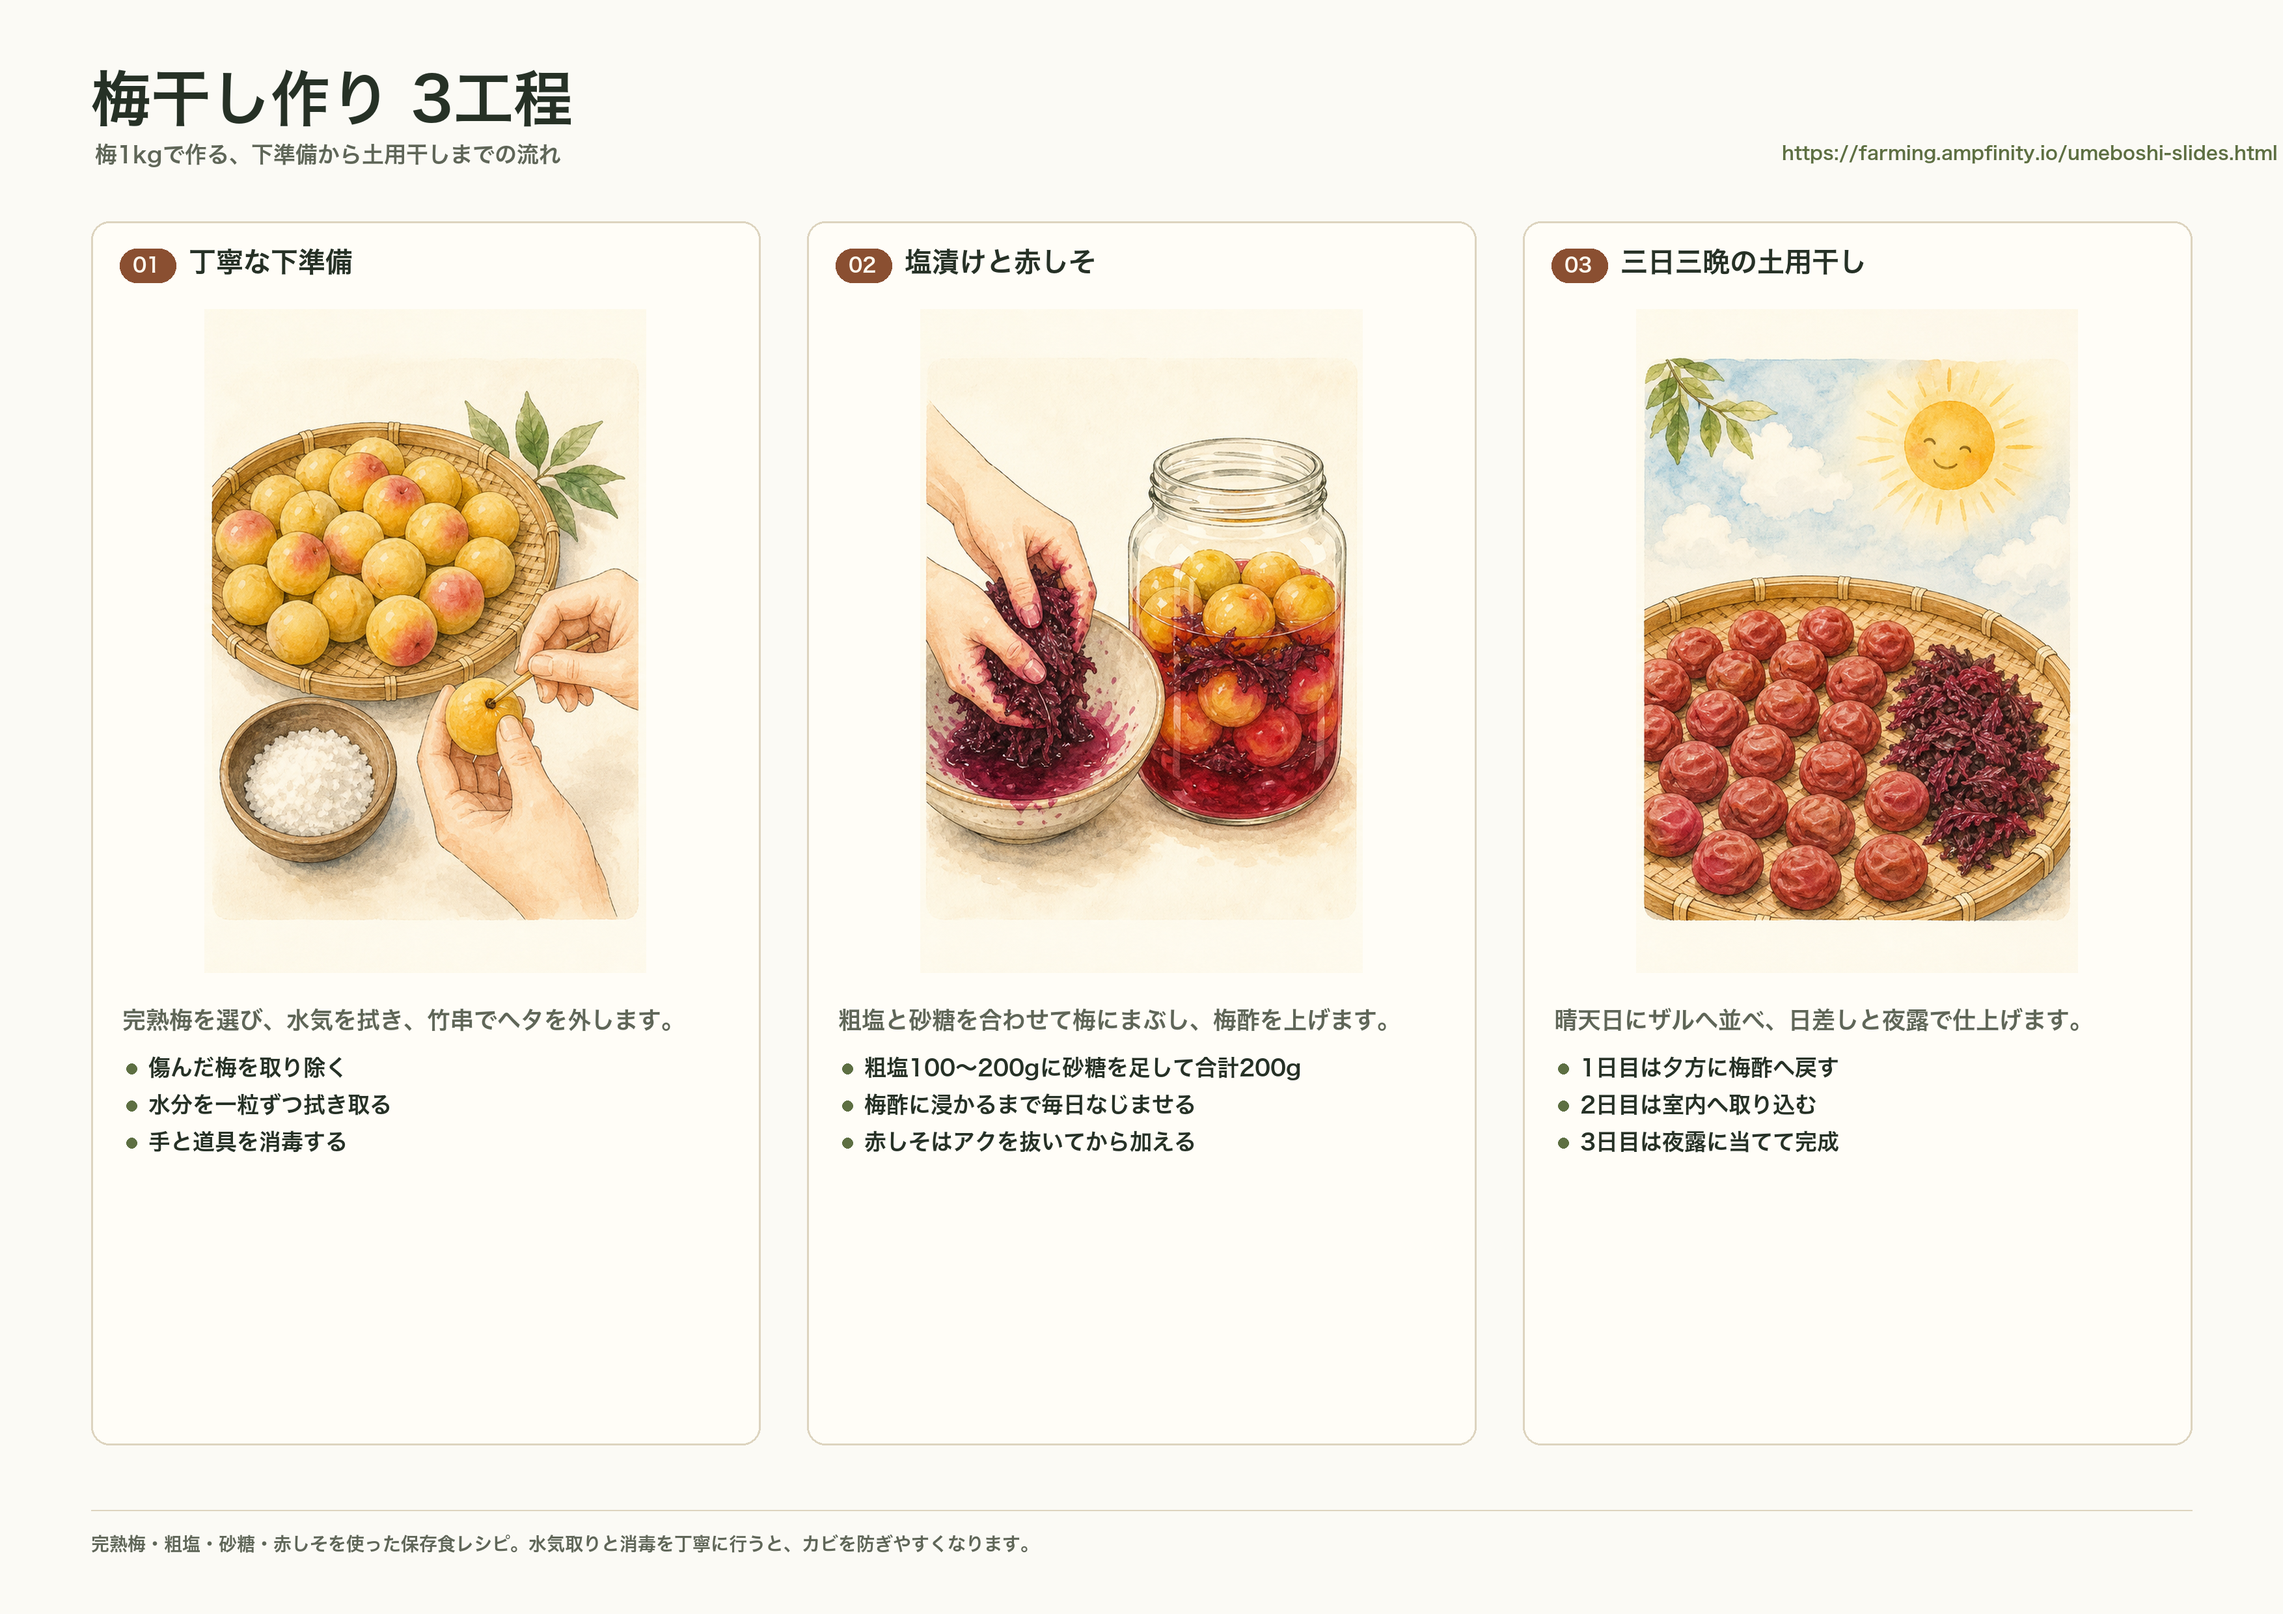
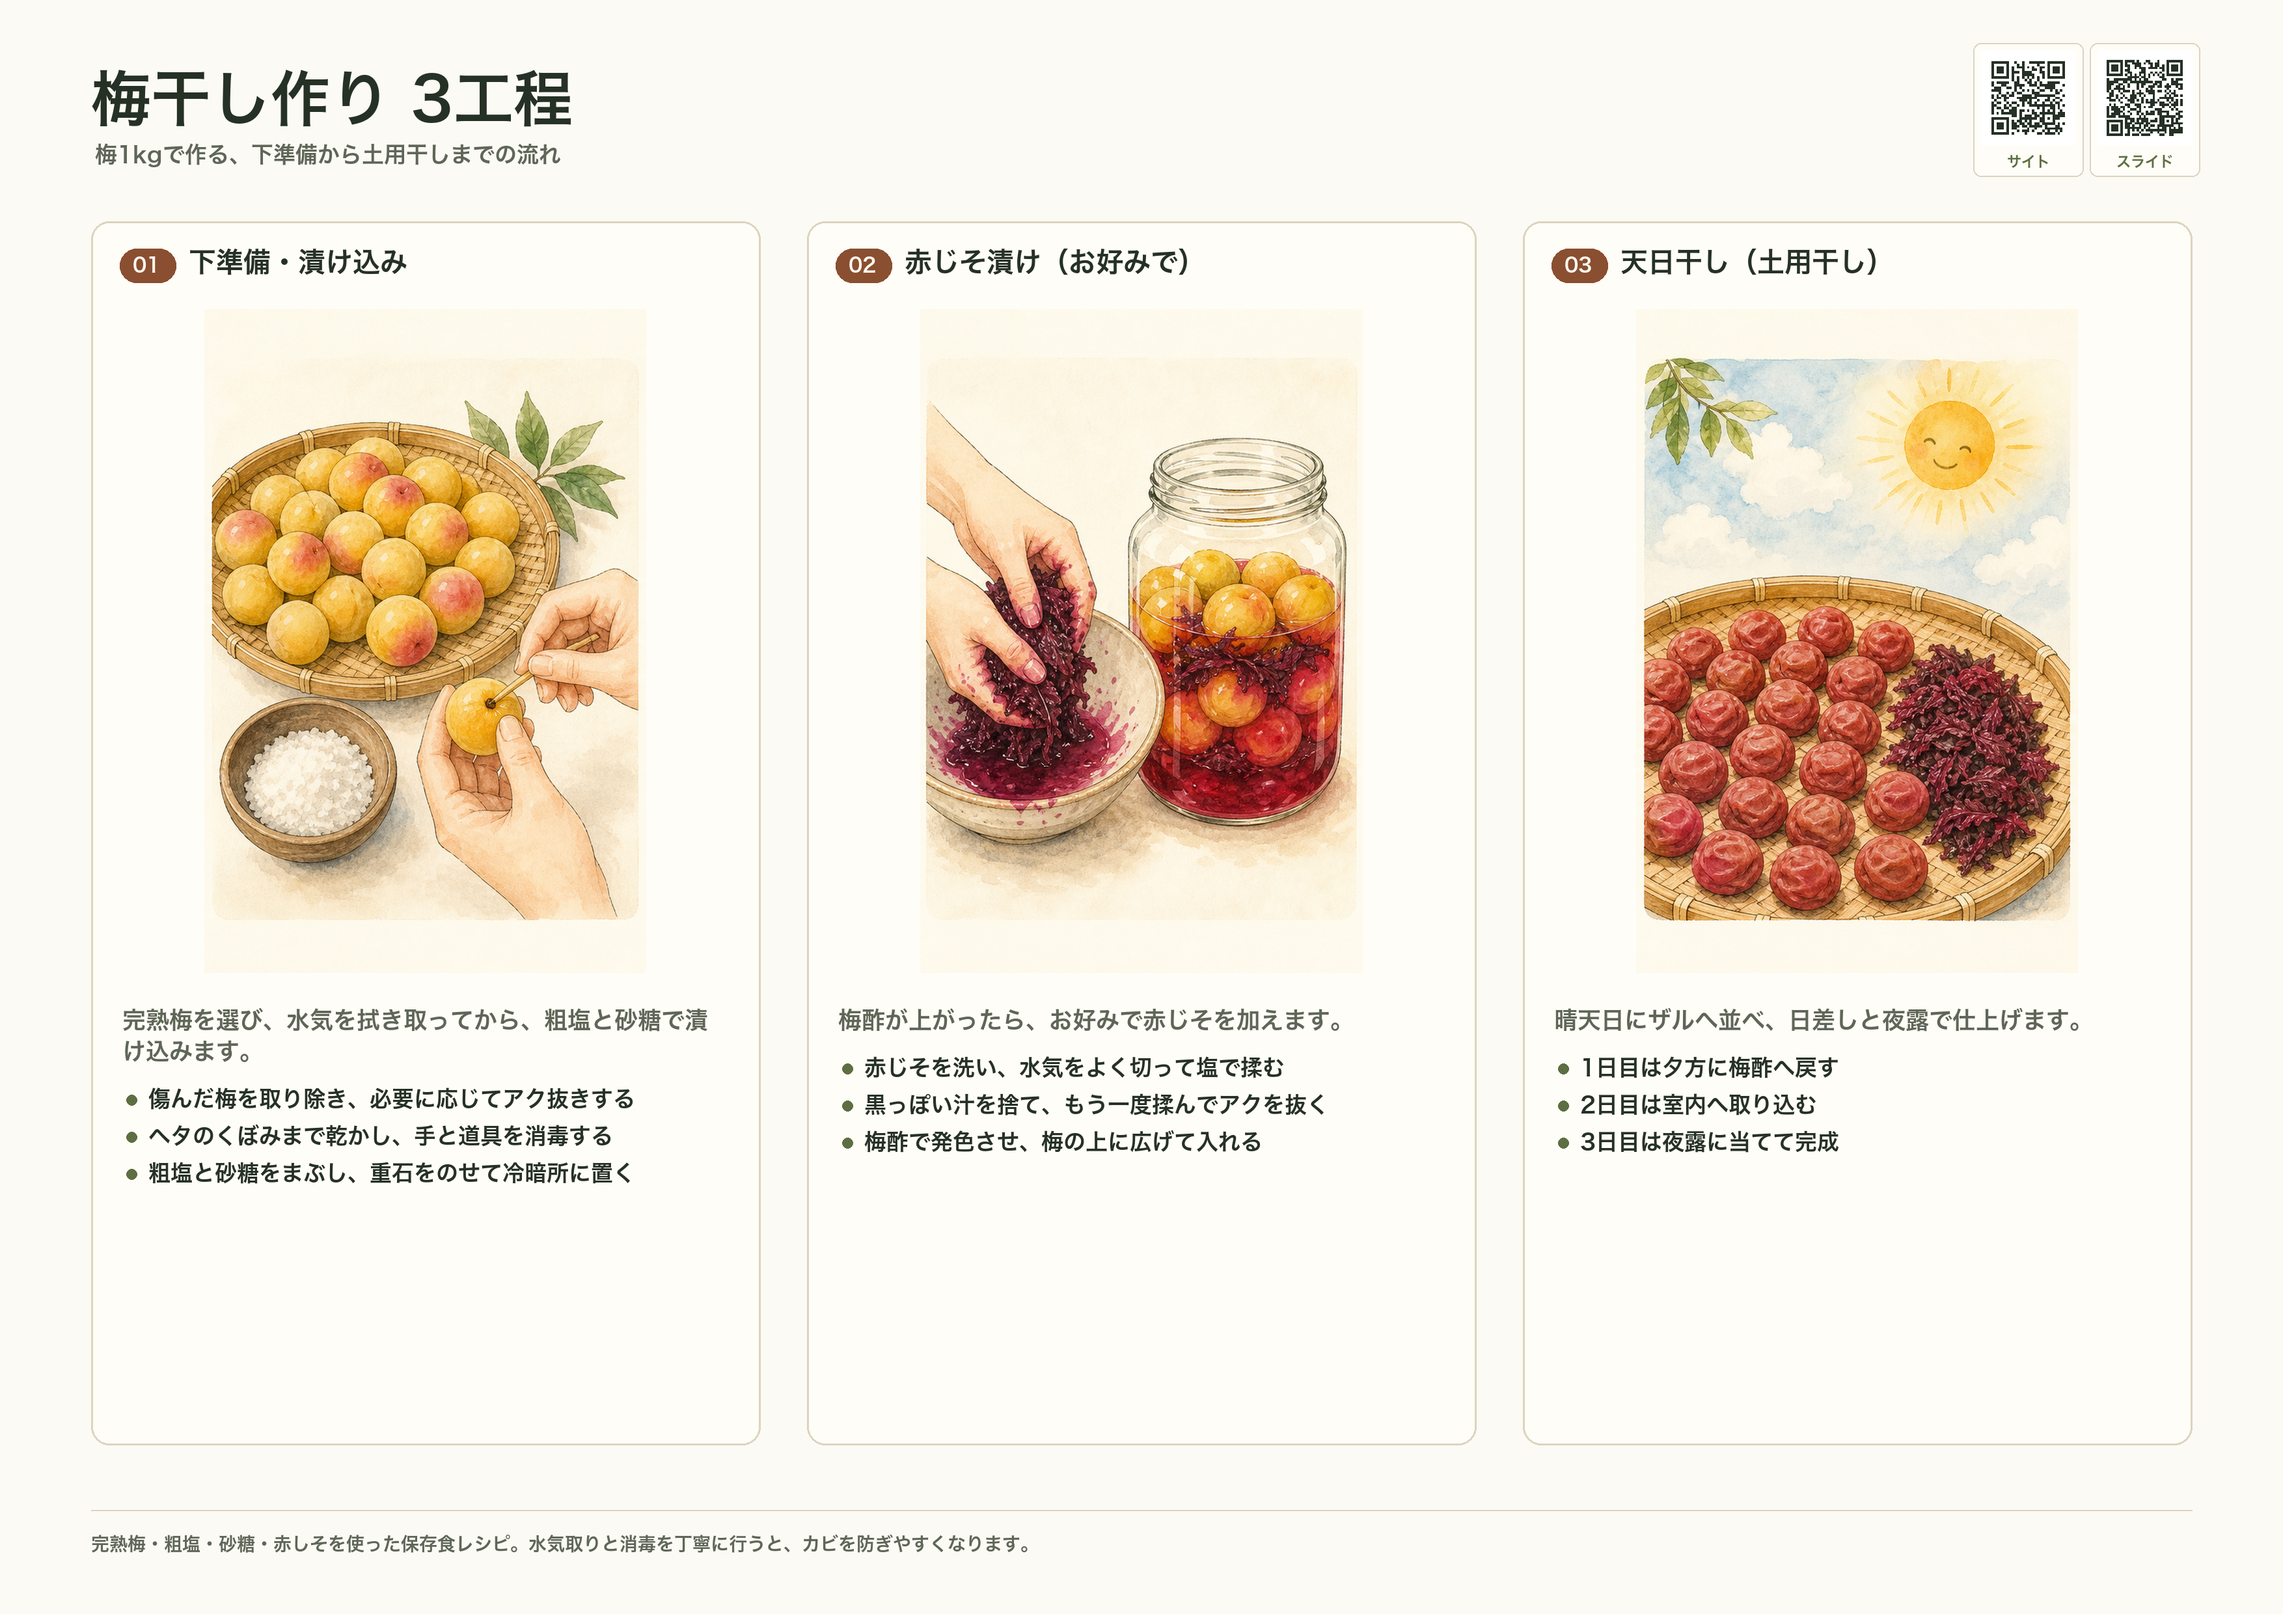
Update umeboshi recipe resources

diff --git a/umeboshi-slides.html b/umeboshi-slides.html
@@ -232,29 +232,29 @@
 
       const slides = [
         {
-          title: "丁寧な下準備",
+          title: "下準備・漬け込み",
           image: "output/images/slides/umeboshi_prep.png",
           lead:
-            "完熟梅を選び、水気をしっかり拭き取り、竹串でヘタを外します。カビを防ぐための土台になる工程です。",
+            "完熟梅を選び、水気をしっかり拭き取ってから、粗塩と砂糖で漬け込みます。梅酢を早く上げるための大切な工程です。",
           points: [
-            "傷んだ梅を取り除き、青みが残る梅は短時間だけアク抜きする。",
-            "ヘタのくぼみまで一粒ずつ乾かし、水分を残さない。",
-            "作業前に手と道具を清潔にして、焼酎で軽く消毒する。",
+            "傷んだ梅を取り除き、必要に応じて短時間だけアク抜きする。",
+            "ヘタのくぼみまで一粒ずつ乾かし、手と道具を消毒する。",
+            "粗塩と砂糖を合わせて梅にまぶし、重石をのせて冷暗所に置く。",
           ],
         },
         {
-          title: "塩漬けと赤しそ",
+          title: "赤じそ漬け（お好みで）",
           image: "output/images/slides/umeboshi_shiso.png",
           lead:
-            "粗塩と砂糖を合わせて梅にまぶし、梅酢を上げます。赤しそを加えると、鮮やかな色と香りが移ります。",
+            "梅酢が上がったら、お好みで赤じそを加えます。赤く色づいた昔ながらの梅干しに仕上げたいときの工程です。",
           points: [
-            "粗塩100〜200gに砂糖を足し、合計200gになるように用意する。",
-            "梅が梅酢に浸かるまで、毎日やさしく容器を揺すってなじませる。",
-            "赤しそは塩で揉んでアクを抜き、梅酢で発色させてから加える。",
+            "赤じそを洗い、水気をよく切ってから塩で揉む。",
+            "出てきた黒っぽい汁を捨て、もう一度揉んでアクを抜く。",
+            "梅酢で赤く発色させてから、梅の上に広げて入れる。",
           ],
         },
         {
-          title: "三日三晩の土用干し",
+          title: "天日干し（土用干し）",
           image: "output/images/slides/umeboshi_drying.png",
           lead:
             "梅雨明け後、晴天が続く日にザルへ並べて干します。日差しと夜露で、皮がふっくらやわらかく仕上がります。",

diff --git a/index.html b/index.html
@@ -133,9 +133,12 @@
             </article>
             <h3 class="recipe-group-title">保存食レシピ</h3>
             <article>
-              <h3>梅干し作り 3工程スライド</h3>
-              <p>丁寧な下準備、塩漬けと赤しそ、三日三晩の土用干しをスマホでも見やすいスライドにまとめています。</p>
-              <a class="text-link" href="umeboshi-slides.html">スライドを見る</a>
+              <h3>梅干し作り</h3>
+              <p>下準備・漬け込み、赤じそ漬け、天日干し（土用干し）の3工程をスマホでも見やすいスライドにまとめています。</p>
+              <div class="recipe-links">
+                <a class="text-link" href="umeboshi-slides.html">スライドを見る</a>
+                <a class="text-link" href="output/pdf/umeboshi_recipe_print.pdf">詳しい製法（PDFファイル）を見る</a>
+              </div>
             </article>
           </div>
         </div>

diff --git a/styles.css b/styles.css
@@ -289,9 +289,15 @@ h3 {
   padding-top: 20px;
 }
 
+.recipe-links {
+  display: flex;
+  flex-wrap: wrap;
+  gap: 10px 18px;
+  margin-top: 4px;
+}
+
 .text-link {
   display: inline-flex;
-  margin-top: 4px;
   color: var(--field);
   font-weight: 850;
   text-decoration-thickness: 2px;

diff --git a/umeboshi_recipe.md b/umeboshi_recipe.md
@@ -1,10 +1,20 @@
-# 【保存版】極上・無添加の梅干しレシピ（梅1kg・塩と砂糖 合計200g）
+# 【保存版】極上・無添加の梅干しレシピ
 
 梅1kgに対して、粗塩と砂糖を合わせて200g使う梅干しレシピです。粗塩は100〜200gの範囲で好みに合わせて調整し、足りない分を砂糖で補って合計200gにします。
 
 たとえば、粗塩150gで作る場合は砂糖50gを足します。粗塩100gなら砂糖100g、粗塩200gなら砂糖は入れません。
 
 塩が少ない配合ほどカビが出やすくなるため、梅の水気を完全に拭き取ること、容器や道具を消毒すること、梅酢を早く上げることが大切です。
+
+### 塩分量の考え方
+
+梅と塩の割合は、時代や保存環境によって変化してきたと考えられます。
+
+江戸時代は、梅一升（山盛りで約1.5〜2kg）に対して、塩三合（すり切り）ほどを使う割合だったようです。その後、塩の精製技術が上がり、塩の専売制度が続いた近代（1905年〜1997年ごろ）には、塩化ナトリウム純度99%以上の食塩が中心になりました。そのため、同じ梅一升に対して塩二合ほどに減っていった可能性があります。
+
+さらに現代では、短期消費や冷蔵庫保管が一般的になったため、塩一合ほど、つまり梅の重量に対して約10%前後の塩分でも作られるようになったのではないかと推測されます。
+
+このレシピでは、保存性と食べやすさのバランスを取り、粗塩100〜200gに砂糖を足して合計200gにする配合にしています。塩を少なくするほどカビのリスクは上がるため、10%前後で作る場合は特に水気取り、消毒、梅酢を早く上げる工程を丁寧に行ってください。
 
 関連スライド: https://farming.ampfinity.io/umeboshi-slides.html
 
